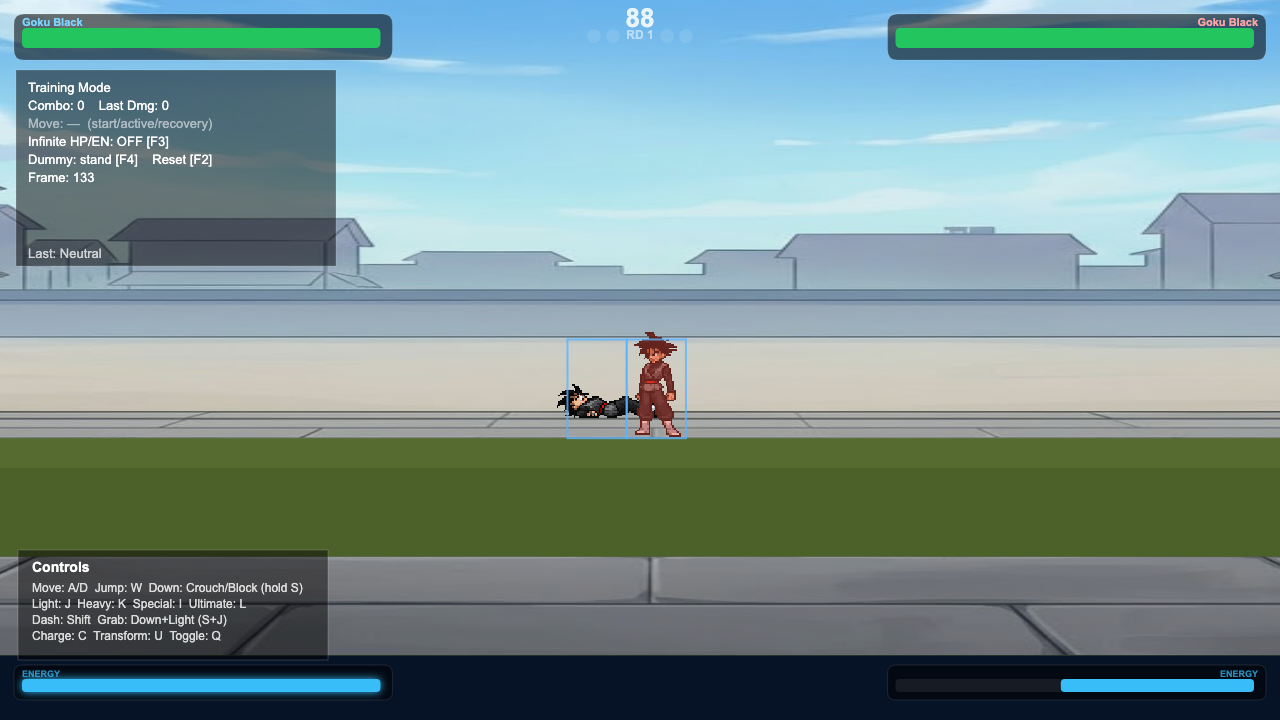
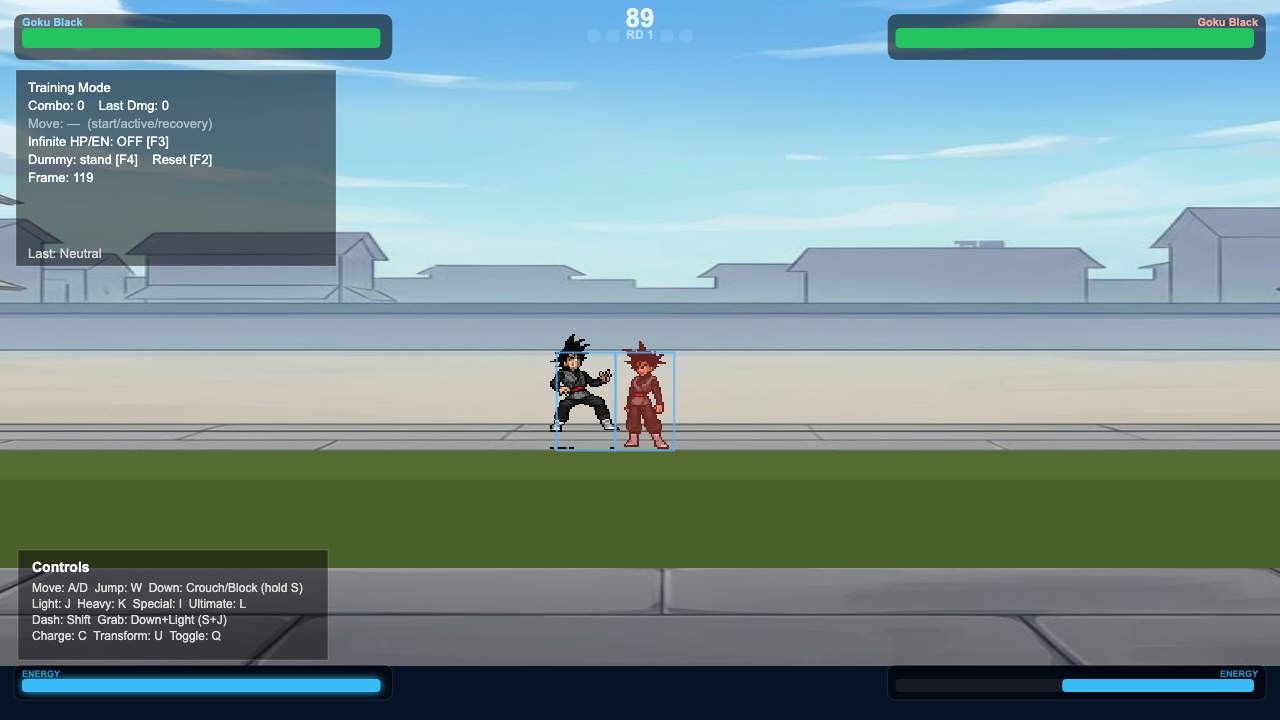
Goku Black bugfixes: SSJ Rose real-play trigger + hit→get-up knockdown chain
BUG 1 — SSJ Rose "didn't trigger in real play". DIAGNOSED with a live trace: the mechanism
was fine (transforms at >=180 energy), but real matches start each fighter at 50% energy
(createFighter startingEnergy = maxEnergy*0.5 = 100) — BELOW the 90% threshold — and the
harness boot()/training reset force energy to max, which is why the Stage-2 test passed but
real play didn't. Worse, charge (P-hold) and transform (P-tap) share a button, so a hold to
build energy releases as a "hold" (not a tap) and never transformed.
  FIX (game.js handleChargeRelease): "charge up and RELEASE to transform" — hold P to build
  energy (doEnergyCharge), and ANY release at/near max enters Rose (enterSSJRose gates on
  energy). A quick TAP still reverts; a HOLD-release while transformed tops up energy and stays.
  (Also fixed a latent ReferenceError — enterSSJRose wasn't imported into game.js.)

BUG 2 — hit reaction cut off + no get-up chain. DIAGNOSED as BOTH: (a) black_goku_hit.png /
black_goku_get_up.png were never RE-SLICED (non-uniform frames → later fall/sprawled frames
clipped = "stops partway"), and (b) knockdownState is set to true ONLY by the harness hook —
NOWHERE in real gameplay — so the knockdown→get-up chain never fired for ANY character (not
just Goku Black). His hit sheet is a full flinch→fall→sprawled sequence and get_up is the rise.
  FIX: re-sliced both sheets; re-mapped knockdown ← black_goku_hit (the FALL, plays through) and
[…]

diff --git a/game.js b/game.js
@@ -35,7 +35,7 @@ import {
 import {
   activeProjectiles, spawnProjectile,
   triggerSpecial, triggerUltimate, triggerTransformation,
-  toggleSSJRose, revertSSJRose, applyGokuBlackFormSystem,   // Goku Black SSJ Rose (Stage 2)
+  enterSSJRose, revertSSJRose, applyGokuBlackFormSystem,   // Goku Black SSJ Rose (Stage 2)
   updateTransformationState, doEnergyCharge, applyGojoPassiveSystems,
   regenEnergy, updatePendingSpawns, clearAbilityState, tojiTeleportStrike, executeSukunaMalevolentDash,
   applyCloneRendanStorm,   // #21 Clone Rendan Storm — flurry follow-ups on Naruto's basic light hit
@@ -1758,6 +1758,19 @@ function handleChargeRelease(fighter, key) {
   if (!fighter || key !== fighter.controls.charge) return
   const wasTap = fighter._chargeHeld && (performance.now() - (fighter._chargeDownTime || 0)) < 200
   fighter._chargeHeld = false
+
+  // GOKU BLACK — SSJ ROSE: "charge up and RELEASE to transform" (handled BEFORE the tap-only gate).
+  // Real matches start at 50% energy (createFighter startingEnergy = maxEnergy*0.5), below the 90%
+  // threshold, so a bare tap did nothing AND the charge-hold-then-separate-tap was non-obvious →
+  // "didn't trigger". Now: hold P to build energy (doEnergyCharge), and ANY release at/near max
+  // (enterSSJRose gates on energy) enters Rose. While transformed a quick TAP reverts early; a
+  // HOLD-release just tops up energy and stays in form (so you can sustain it).
+  if (fighter.rosterKey === "goku_black") {
+    if (fighter._ssjRoseActive) { if (wasTap) revertSSJRose(fighter) }
+    else enterSSJRose(fighter, getAbilityContext())
+    return
+  }
+
   if (!wasTap) return
   if (fighter.rosterKey === "gojo") {
     if (!fighter.disabledSpecials?.includes("infinity")) {   // Limitless Sacrifice vow disables Infinity
@@ -1773,10 +1786,6 @@ function handleChargeRelease(fighter, key) {
     fighter.teleportFlash = Math.max(fighter.teleportFlash || 0, 10)
     // Repurposed asset: the old Susanoo-intro sheet now manifests the Absolute Defense barrier.
     if (fighter.absoluteDefenseActive) spawnAbsoluteDefenseFx(fighter, getAbilityContext())
-  } else if (fighter.rosterKey === "goku_black") {
-    // SSJ ROSE toggle: enter only at/near max energy; manual re-tap reverts early. The continuous
-    // per-frame drain + instant auto-revert-at-zero are handled in applyGokuBlackFormSystem.
-    toggleSSJRose(fighter, getAbilityContext())
   } else if (fighter.transformationOrder?.length) {
     triggerTransformation(fighter, getAbilityContext())
   }

diff --git a/combat.js b/combat.js
@@ -313,6 +313,9 @@ export const SASUKE_ABSOLUTE_DEFENSE_COST = 12   // per negated hit (Gojo's per-
 // GOKU BLACK — "Ki Slash" heavy: the one normal that costs energy. 10 = 5% of his 200 pool → still
 // spammable as a poke, but well under his cheapest special (Kamehameha 30) so it stays a normal.
 export const KI_SLASH_COST = 10
+// GOKU BLACK — knockdown reaction length on a strong grounded hit: ~28f FALL (black_goku_hit) then
+// ~24f RISE (black_goku_get_up) = 52. Kept in sync with sprite.js GETUP_WINDOW (24).
+export const GOKU_BLACK_KNOCKDOWN = 52
 export function shouldSasukeAbsoluteDefenseNegate(defender) {
   if ((defender?.rosterKey || "").toLowerCase() !== "sasuke") return false
   if (!defender?.absoluteDefenseActive) return false
@@ -685,6 +688,18 @@ export function resolveAttackHit(attacker, defender, hitEffects = null, options 
       if (proj <= 0 || proj >= stageWidth - (defender.w || 60)) {
         defender.wallBounce = true
       }
+    }
+
+    // GOKU BLACK — dramatic KNOCKDOWN on a strong GROUNDED hit (heavy/special/ultimate; NOT
+    // launcher/spike, which already send him airborne). His black_goku_hit sheet is a full
+    // flinch→fall→sprawled sequence: the resolver plays it through, then chains into black_goku_get_up
+    // (RISE). Light jabs stay a brief flinch (hurt). Self-contained — knockdownState is otherwise never
+    // triggered in normal play; gated to goku_black. invulnTimer prevents ground-lock combos.
+    if ((defender.rosterKey || "").toLowerCase() === "goku_black" && !atk.launcher && !atk.spike &&
+        (cat === "heavy" || cat === "special" || cat === "ultimate")) {
+      defender.knockdownState = true
+      defender.knockdownTimer = GOKU_BLACK_KNOCKDOWN
+      defender.invulnTimer    = Math.max(defender.invulnTimer || 0, GOKU_BLACK_KNOCKDOWN)
     }
 
     if (!isCounter) {

diff --git a/sprite.js b/sprite.js
@@ -141,6 +141,10 @@ const MOVE_TO_ACTION = {
   domain: "domain"
 };
 
+// Last-N frames of a knockdown during which a fighter WITH a `getup` strip plays its RISE
+// pose (get_up.png = 6f × speed 4 ≈ 24). Only affects fighters that define `getup` (Goku Black).
+const GETUP_WINDOW = 24;
+
 // ─────────────────────────────────────────────────────────────────
 // ACTION RESOLVER
 // Combines your simple priority flow with extra states from the
@@ -177,6 +181,16 @@ function _resolveAction(fighter, currentAction = "idle") {
     // base animationData); otherwise keep the existing hurt fallback — unchanged
     // for every character WITHOUT a `knockdown` strip (Gojo/Sukuna/…).
     const kd = (fighter._skinAnim?.knockdown || fighter.animationData?.knockdown) ? "knockdown" : "hurt";
+    // GET-UP CHAIN: a fighter that ALSO defines a `getup` strip (Goku Black) plays the knockdown
+    // FALL pose for the down portion, then the getup RISE pose as it recovers, then idle. Fighters
+    // WITHOUT a `getup` (Naruto/…) keep the legacy 12-frame knockdown→idle behaviour, unchanged.
+    const hasGetup = !!(fighter._skinAnim?.getup || fighter.animationData?.getup);
+    if (hasGetup) {
+      if ((fighter._techDash || 0) > 0) return "dash";
+      if ((fighter.knockdownTimer || 0) > GETUP_WINDOW) return kd;   // still down → FALL/sprawled pose
+      if ((fighter.knockdownTimer || 0) > 0) return "getup";         // recovering → RISE pose
+      return "idle";
+    }
     if ((fighter.knockdownTimer || 0) > 12) return kd;
     if ((fighter._techDash || 0) > 0) return "dash";
     return "idle";

diff --git a/characters.js b/characters.js
@@ -1632,8 +1632,9 @@ const gokuBlack = {
     dash:      { frames: 2, width: 88, height: 47, speed: 5, anchorY: 0, sheet: "./black_goku_dash.png" },
     jump:      { frames: 6, width: 69, height: 73, speed: 6, anchorY: 0, sheet: "./black_goku_jump.png" },
     fall:      { frames: 5, width: 50, height: 71, speed: 6, anchorY: 0, sheet: "./black_goku_jump_2.png" },       // descent-only poses (asset map §3.2)
-    hurt:      { frames: 7, width: 70, height: 78, speed: 6, anchorY: 0, sheet: "./black_goku_hit.png" },
-    knockdown: { frames: 6, width: 76, height: 71, speed: 6, anchorY: 0, sheet: "./black_goku_get_up.png" },       // get-up sheet → knockdown slot
+    hurt:      { frames: 7, width: 69, height: 71, speed: 6, anchorY: 0, sheet: "./black_goku_hit.png" },        // flinch on hitstun (RE-SLICED uniform)
+    knockdown: { frames: 7, width: 69, height: 71, speed: 4, anchorY: 0, loop: false, lockLastFrame: true, sheet: "./black_goku_hit.png" },     // FALL→sprawled on a strong-hit knockdown (same sheet, plays through)
+    getup:     { frames: 6, width: 69, height: 59, speed: 4, anchorY: 0, loop: false, lockLastFrame: true, sheet: "./black_goku_get_up.png" },  // RISE — chains after the knockdown fall (RE-SLICED)
     guard:     { frames: 3, width: 52, height: 61, speed: 6, anchorY: 0, sheet: "./black_goku_block.png" },
     light:     { frames: 6, width: 65, height: 54, speed: 3, anchorY: 0, sheet: "./black_goku_front_attack.png" },  // RE-SLICED uniform (wide punch frames no longer left-clipped)
     heavy:     { frames: 8, width: 112, height: 69, speed: 2, anchorY: 0, sheet: "./black_goku_ki_slash.png" },     // KI SLASH (energy-costing heavy), RE-SLICED uniform
